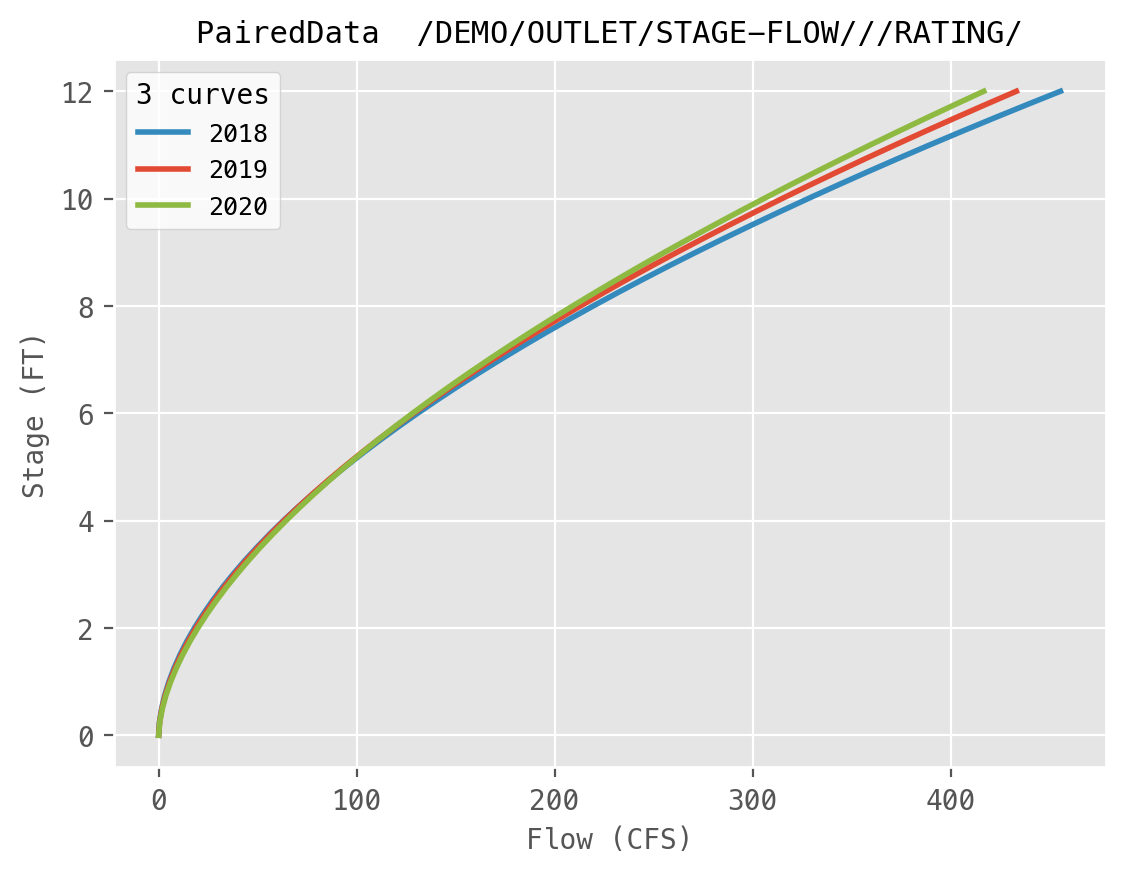
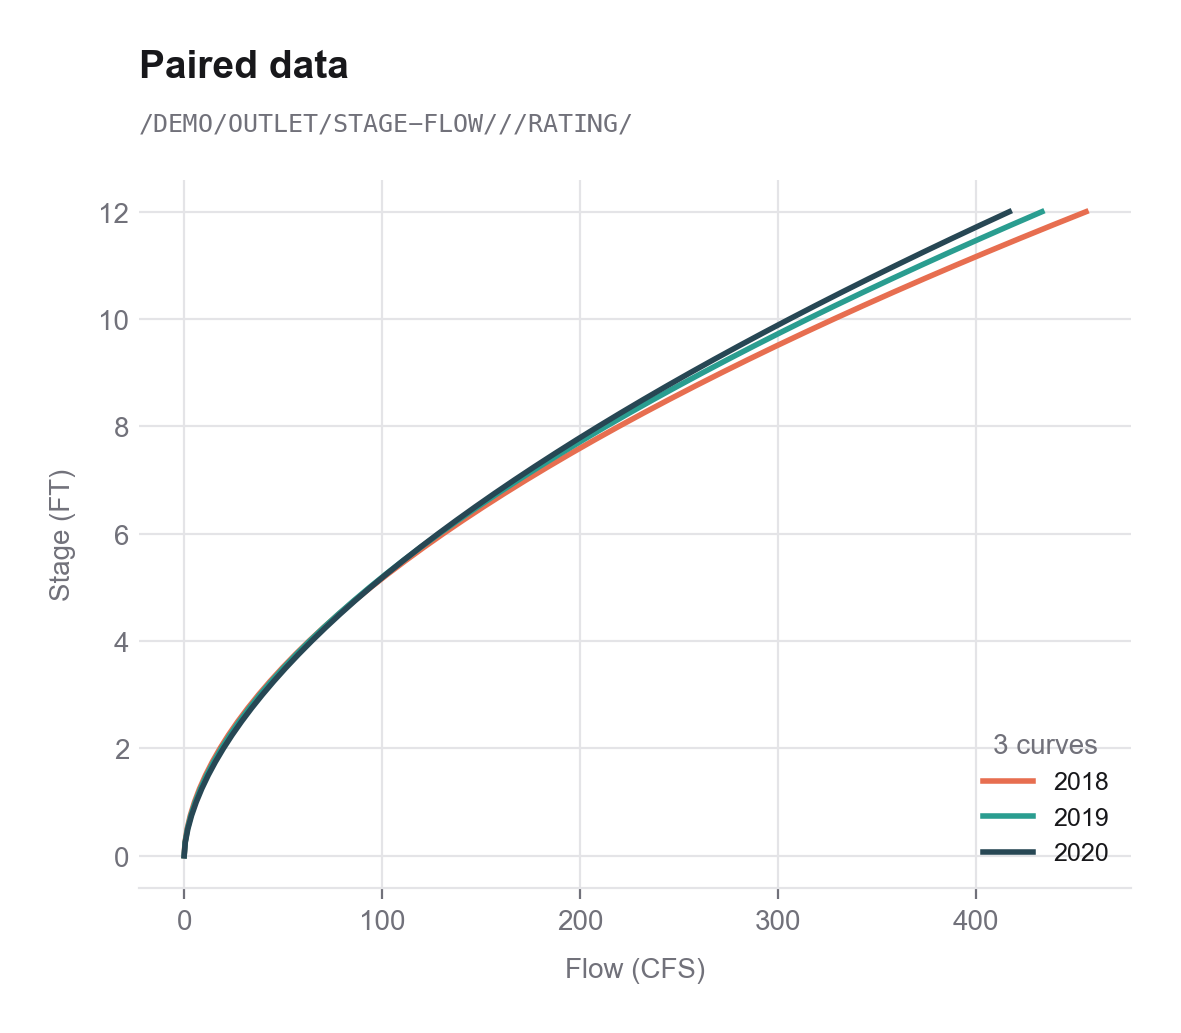
Restyle README figures, browser screenshots side by side
- light style matching the dss browser colors
- titles: record type, with the dss pathname below in a smaller font

diff --git a/examples/make_readme_figures.py b/examples/make_readme_figures.py
@@ -25,20 +25,41 @@ import pandas as pd
 import pyheclib as phl
 
 
-plt.style.use("ggplot")
+# a quiet light style, like the dss browser: white, no box, faint grid lines
+INK, MUTED, FAINT = "#18181b", "#71717a", "#e4e4e7"
+COLORS = ["#e76e50", "#2a9d90", "#274754", "#e8c468"]   # the browser chart colors
+
 plt.rcParams.update({
-	"font.family": "monospace",
+	"font.family": "sans-serif",
+	"font.sans-serif": ["Arial", "Liberation Sans", "DejaVu Sans"],   # fonts with a real bold
 	"font.monospace": ["IBM Plex Mono", "JetBrains Mono", "Menlo", "Consolas", "DejaVu Sans Mono"],
+	"font.size": 10,
+	"text.color": INK,
+	"axes.prop_cycle": plt.cycler(color=COLORS),
+	"axes.edgecolor": FAINT,
+	"axes.labelcolor": MUTED,
+	"axes.labelsize": 10,
+	"axes.labelpad": 8,
+	"axes.spines.top": False,
+	"axes.spines.right": False,
+	"axes.spines.left": False,
+	"axes.grid": True,
+	"axes.grid.axis": "y",
+	"axes.axisbelow": True,
+	"grid.color": FAINT,
+	"grid.linewidth": 0.8,
+	"xtick.color": MUTED,
+	"ytick.color": MUTED,
+	"xtick.major.size": 4,
+	"xtick.major.width": 0.8,
+	"ytick.major.size": 0,
+	"legend.frameon": False,
+	"legend.fontsize": 9,
+	"figure.facecolor": "white",
 	"figure.dpi": 100,
 	"savefig.dpi": 200,
 	"savefig.bbox": "tight",
-	"font.size": 10,
-	"axes.titlesize": 11,
-	"axes.titleweight": "bold",
-	"axes.labelsize": 10,
-	"legend.fontsize": 9,
-	"legend.frameon": True,
-	"legend.facecolor": "white",
+	"savefig.pad_inches": 0.25,
 })
 
 FLOW_PATH = "/DEMO/OUTLET/FLOW//1HOUR/OBS/"
@@ -112,20 +133,29 @@ def example_records():
 
 ''' ** figures, drawn from the records read back ** '''
 
+def title(ax, name, path):
+	''' the record type, with the dss pathname below it in a smaller mono font '''
+	ax.annotate(name, (0, 1), xycoords="axes fraction", xytext=(0, 34), textcoords="offset points",
+		fontsize=14, fontweight="bold", color=INK, va="bottom")
+	ax.annotate(path, (0, 1), xycoords="axes fraction", xytext=(0, 16), textcoords="offset points",
+		fontsize=9, family="monospace", color=MUTED, va="bottom")
+
+
 def plot_regular_ts(flow, precip, out_file):
 	fig, (ax_rain, ax_flow) = plt.subplots(2, 1, figsize=(10, 5.2), sharex=True,
 		gridspec_kw={"height_ratios": [1, 2.4], "hspace": 0.06})
 
 	rain = precip.to_series()
-	ax_rain.bar(rain.index - pd.Timedelta(hours=12), rain.values, width=0.85, color="#348ABD")
+	ax_rain.bar(rain.index - pd.Timedelta(hours=12), rain.values, width=0.8, color=COLORS[2])
 	ax_rain.invert_yaxis()
+	ax_rain.tick_params(axis="x", length=0)
 	ax_rain.set_ylabel(f"Rainfall ({precip.unit})")
-	ax_rain.set_title(f"RegularTs  {flow.path.without_date()}  &  {precip.path.without_date()}")
+	title(ax_rain, "Regular time series", f"{flow.path.without_date()}  &  {precip.path.without_date()}")
 
 	q = flow.to_series()
-	ax_flow.plot(q.index, q.values, color="#E24A33", lw=1.1, label=f"Flow, {flow.interval} {flow.type}")
+	ax_flow.plot(q.index, q.values, color=COLORS[0], lw=1.2, label=f"Flow, {flow.interval} {flow.type}")
 	gap = q[q.isna()]
-	ax_flow.axvspan(gap.index[0], gap.index[-1], color="0.6", alpha=0.35, label="missing values (NaN)")
+	ax_flow.axvspan(gap.index[0], gap.index[-1], color=FAINT, alpha=0.8, lw=0, label="missing values (NaN)")
 	ax_flow.set_ylabel(f"Flow ({flow.unit})")
 	ax_flow.legend(loc="upper right")
 	ax_flow.xaxis.set_major_formatter(mdates.DateFormatter("%d %b"))
@@ -138,11 +168,11 @@ def plot_irregular_ts(stage, out_file):
 	fig, ax = plt.subplots(figsize=(10, 3.6))
 
 	s = stage.to_series()
-	ax.plot(s.index, s.values, color="#988ED5", lw=1, alpha=0.7)
-	ax.scatter(s.index, s.values, s=26, color="#988ED5", edgecolor="white", zorder=3,
+	ax.plot(s.index, s.values, color=COLORS[1], lw=1, alpha=0.45)
+	ax.scatter(s.index, s.values, s=30, color=COLORS[1], edgecolor="white", linewidth=1, zorder=3,
 		label=f"{s.size} readings at irregular times")
 	ax.set_ylabel(f"Stage ({stage.unit})")
-	ax.set_title(f"IrregularTs  {stage.path.without_date()}")
+	title(ax, "Irregular time series", stage.path.without_date())
 	ax.legend(loc="upper right")
 	ax.xaxis.set_major_formatter(mdates.DateFormatter("%d %b"))
 
@@ -154,13 +184,15 @@ def plot_paired(rating, out_file):
 	fig, ax = plt.subplots(figsize=(6.4, 4.6))
 
 	df = rating.to_dataframe()
-	for color, label in zip(("#348ABD", "#E24A33", "#8EBA42"), df.columns):
-		ax.plot(df[label].values, df.index.values, lw=2, color=color, label=label)
+	for label in df.columns:
+		ax.plot(df[label].values, df.index.values, lw=2, label=label)
 
+	ax.grid(True, axis="both")
 	ax.set_xlabel(f"Flow ({rating.y_unit})")
 	ax.set_ylabel(f"Stage ({rating.x_unit})")
-	ax.set_title(f"PairedData  {rating.path}")
-	ax.legend(title=f"{rating.n_curves} curves")
+	title(ax, "Paired data", rating.path)
+	legend = ax.legend(title=f"{rating.n_curves} curves", loc="lower right")
+	legend.get_title().set_color(MUTED)
 
 	fig.savefig(out_file)
 	plt.close(fig)
@@ -169,20 +201,24 @@ def plot_paired(rating, out_file):
 def plot_gridded(grid, out_file):
 	fig, ax = plt.subplots(figsize=(8.4, 5))
 	ax.grid(False)
+	ax.spines[:].set_visible(False)
+	ax.tick_params(axis="both", length=0)
 
 	xmin, xmax, ymin, ymax = (v / 1000 for v in grid.extent)
 	cmap = plt.get_cmap("viridis").copy()
-	cmap.set_bad("0.85")
+	cmap.set_bad("#f4f4f5")
 	image = ax.imshow(grid.data, extent=(xmin, xmax, ymin, ymax), cmap=cmap, origin="upper")
 
 	bar = fig.colorbar(image, ax=ax, fraction=0.035, pad=0.02)
+	bar.outline.set_visible(False)
+	bar.ax.tick_params(length=0)
 	bar.set_label(f"{grid.type} ({grid.unit})")
 	ax.set_xlabel(f"x ({grid.srs_name}, km)")
 	ax.set_ylabel(f"y ({grid.srs_name}, km)")
-	ax.set_title(f"GriddedData  {grid.path}")
+	title(ax, "Gridded data", grid.path)
 	ax.text(0.015, 0.975, f"{grid.shape[0]} x {grid.shape[1]} cells of {grid.cell_size / 1000:g} km\n"
-		"grey = nodata (NaN)", transform=ax.transAxes, fontsize=8, va="top",
-		bbox={"facecolor": "white", "edgecolor": "0.7", "boxstyle": "round,pad=0.4"})
+		"light grey = nodata (NaN)", transform=ax.transAxes, fontsize=8, va="top", color=MUTED,
+		bbox={"facecolor": "white", "edgecolor": FAINT, "boxstyle": "round,pad=0.5"})
 
 	fig.savefig(out_file)
 	plt.close(fig)

diff --git a/readme.md b/readme.md
@@ -234,9 +234,10 @@ The browser opens one or more files in tabs (or drag files onto the page). Searc
 text or by part (`B=GAGE C=FLOW*`), view metadata, statistics, a graph or table of the data,
 and download a record as csv. Each record has its own link (`/?file=1&path=/A/B/C/D/E/F/`).
 
-![dss browser, light mode](https://raw.githubusercontent.com/nzahasan/pyheclib/main/assets/readme/dss_browser_light.png)
-
-![dss browser, dark mode](https://raw.githubusercontent.com/nzahasan/pyheclib/main/assets/readme/dss_browser.png)
+<p>
+<img src="https://raw.githubusercontent.com/nzahasan/pyheclib/main/assets/readme/dss_browser_light.png" alt="dss browser, light mode" width="49%">
+<img src="https://raw.githubusercontent.com/nzahasan/pyheclib/main/assets/readme/dss_browser.png" alt="dss browser, dark mode" width="49%">
+</p>
 
 ## Examples and notebooks
 
